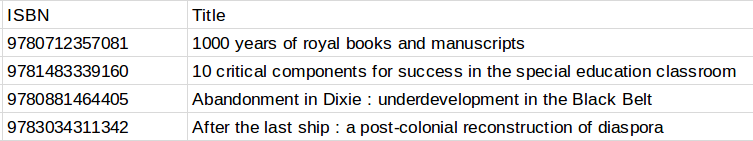
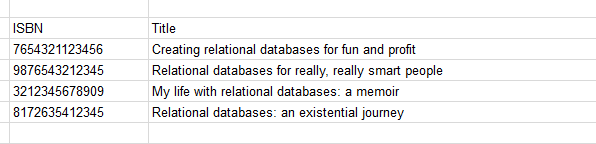
Updated README.md.

diff --git a/README.md b/README.md
@@ -4,35 +4,94 @@ In this 4-hour workshop, participants will learn the basics of data modelling fo
 
 # How relational databases work
 
+## Tables, relationships, and IDs
+
 Relational databases strucutre data in tables, and provide mechanisms for linking (relating) those tables together to so that the data can be queried and managed efficiently. For example, if we wanted to manage a list of books, we would create a table that contained some data about those books:
 
-![Spacer image](assets/spacer.jpg)
 ![Some sample books](assets/sample_book_list.png)
-![Spacer image](assets/spacer.jpg)
 
 Each row in the table describes a single book, and the data is organized into columns, with each intersection of a row and a column containing a single piece of data. But if each intersection of a row and a column can contain only one piece of data, how do we handle data that can apply more than once to each book, such as its author? It's pretty common for a book to have more than one author.
 
 Relational databases organize data into multiple tables, and link the tables together so that all the data about something (in our example, a single book) can be assembled from the relevant tables as needed. If we put data about authors in its own table, we can allow each book to have multiple authors. Because each book can have many authors, and each author can have written more than one book, we say that books and authors have a "many-to-many" relationship with each other. Relational databases accommodate this type of relationship by using a third table whose function is to relate the two things described in separate tables, as illustrated in this diagram:
 
-
 ![Books and authors](assets/BooksAuthors.jpg)
 
+This intermediate table is known as a "relation" or "join" table. For this method of breaking up data into multiple tables to work reliably, we need to ensure that each row in the books table and each row in the authors table can be referenced uniquely. To do this, we need to assign identifiers to each rown in the book and authors tables, and we use those identifiers to relate the two tables to each other in the third table. We will see some examples of these identifiers in the query examples below.
 
-For this method of breaking up data into multiple tables to work reliably, we to ensure that each row in the books table and each row in the authors table can be referenced uniquely, we need to assign identifiers to each rown in the book and authors tables, and we use those identifiers to relate the two tables to each other in the third table.
-
-"One-to-many" relationships don't use a third table. This type of relationship is expressed by linking two tables, one containing the data that is on the "one" side of the relationship and the other that is on the "many" side. For example, each book can have many editions, but each edition only applies to a single book:
-
+"One-to-many" relationships don't use a third table. This type of relationship links two tables, one containing the data that is on the "one" side of the relationship and the other that is on the "many" side. For example, each book can have many editions, but each edition applies to only a single book:
 
 ![Books and editions](assets/BooksEditions.jpg)
 
-
-One-to-many relationships require unique IDs to link the tables reliably, but unlike in the intermediate table used in the many-to-many relationship, the table that contains the data describing the "many" side of the relationship has a column reserved for the ID of the "one" side of the relationship. 
+One-to-many relationships also require that rows in tables have unique IDs, but unlike in the join table used in many-to-many relationship, the table that contains the data describing the "many" side of the relationship has a column reserved for the ID of the "one" side of the relationship. 
 
 The IDs used to uniquely identify the things described in tables are called "primary keys". If these IDs are used in other tables, they are called "foreign keys" in those tables. For example, the "book_id" column in the Books table is that table's primary key, but the "book_id" column in the Editions table is a foreign key.
 
 Putting together all of our tables, we get a database structure that can be represented like this:
 
 ![Books and editions](assets/BooksAuthorsEditions.jpg)
+
+Here are the tables, structured as illustrated above, with some data in them:
+
+Books
+
+```
++---------+------------------------------------------------------+---------------+
+| book_id | title                                                | ISBN          |
++---------+------------------------------------------------------+---------------+
+|       1 | Creating relational databases for fun and profit     | 7654321123456 |
+|       2 | Relational databases for really, really smart people | 9876543212345 |
+|       3 | My life with relational databases: a memoir          | 3212345678909 |
+|       4 | Relational databases: an existential journey         | 8172635412345 |
++---------+------------------------------------------------------+---------------+
+```
+
+Authors
+```
++-----------+---------------+------------+
+| author_id | last_name     | first_name |
++-----------+---------------+------------+
+|         1 | Lopez Baranda | Christina  |
+|         2 | Jin-Soon      | Sin        |
+|         3 | Jones         | Hannah     |
+|         4 | Novak         | Stanislaw  |
+|         5 | Turay         | Tandice    |
+|         6 | Roy           | Shanta     |
+|         7 | Berger        | Henry      |
+|         8 | Khatami       | Paree      |
++-----------+---------------+------------+
+```
+
+BooksAuthors
+```
++---------+-----------+
+| book_id | author_id |
++---------+-----------+
+|       3 |         6 |
+|       2 |         4 |
+|       2 |         5 |
+|       1 |         1 |
+|       1 |         3 |
+|       1 |         5 |
+|       4 |         8 |
++---------+-----------+
+```
+
+Editions
+```
++------------+---------+---------------------+----------------+
+| edition_id | book_id | date_of_publication | edition_number |
++------------+---------+---------------------+----------------+
+|          1 |       3 |                2001 | 1              |
+|          2 |       3 |                2003 | 2              |
+|          3 |       4 |                2003 | 1              |
+|          5 |       1 |                2000 | 1              |
+|          6 |       3 |                2005 | 3              |
+|          8 |       2 |                2012 | 1              |
+|          9 |       3 |                2009 | 4              |
++------------+---------+---------------------+----------------+
+```
+
+## Querying tables using SQL
 
 After we have populated the database with data (we'll explain how to do that later), we can query it using SQL (the Structured Query Language). For example, to view all information stored in the Authors table, sorted by last name, we use the following query:
 
@@ -59,8 +118,7 @@ which produces the following:
 
 ```
 
-Using uppercase for SQL commands is a convention only, it's not mandatory. Also, the output we're seeing here is specific to the MySQL command-line client, which we're not using in this workshop. The results output will look different depending on what tool is being used to query the database.
-
+Using uppercase for SQL commands is a convention only, it's not mandatory. Also, the output we're seeing here is specific to the MySQL command-line client, which we're not using in this workshop. How you query the databaase, and how the results output will look will depend on what tool is being used to manage the database.
 
 This query asks for the first and last names of authors of the book with book_id 1:
 
@@ -83,8 +141,7 @@ The results are:
 3 rows in set (0.01 sec)
 ```
 
-This query is more complex than the first one, because it is asking for data from multiple tables. It relates that tables using the clause `WHERE BooksAuthors.author_id = Authors.author_id`, which in relational database jargon is called a "join" query.
-
+This query is more complex than the first one, because it is asking for data from multiple tables. It relates the tables using the clause `WHERE BooksAuthors.author_id = Authors.author_id`, which in relational database jargon is called a "join" query (not to be confused with the "join" table used to store many-to-many relationships.)
 
 To find the book IDs, titles, and ISBNs that have editions published after (that is, greater than) 2003, we would use this SQL query:
 
